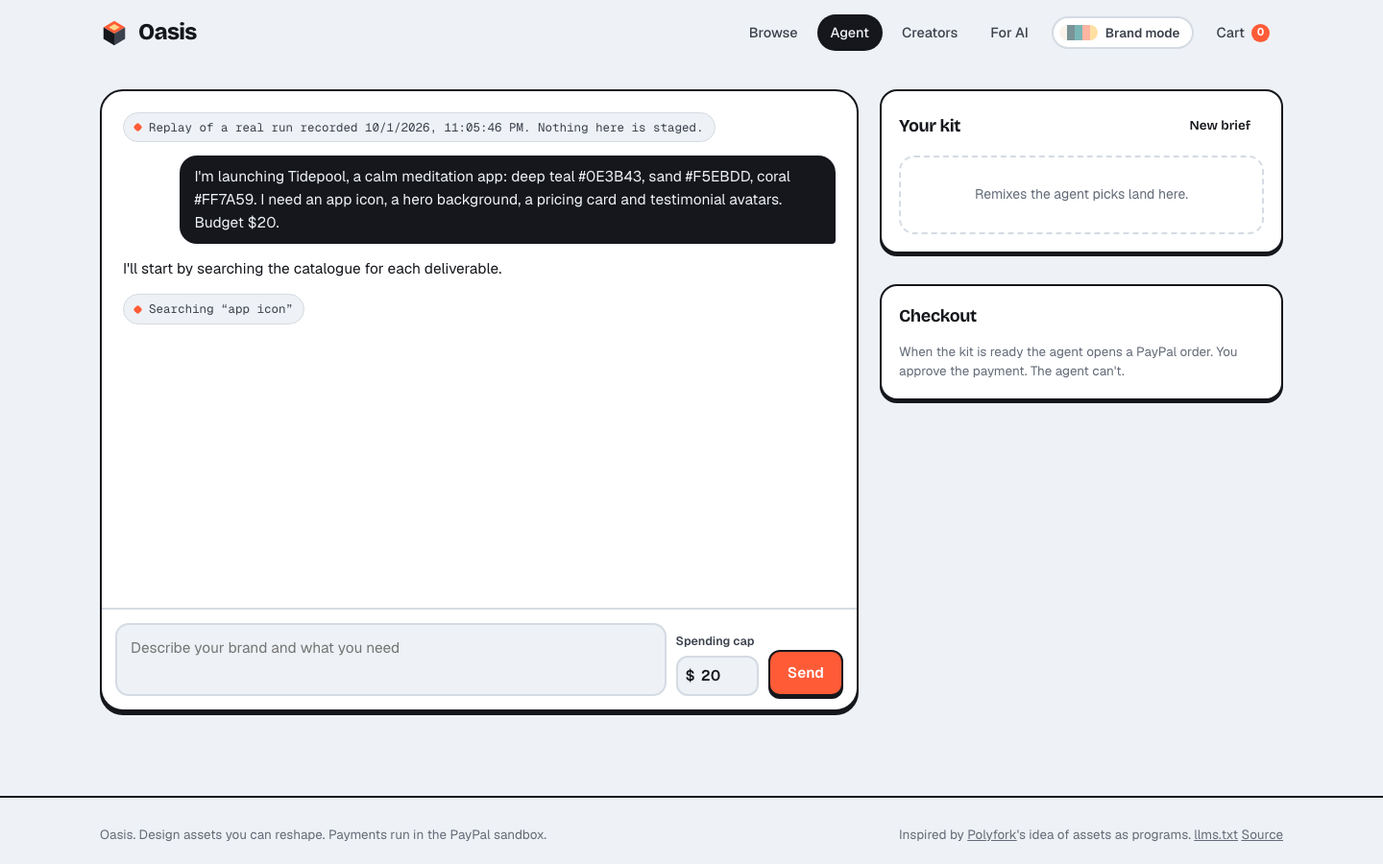
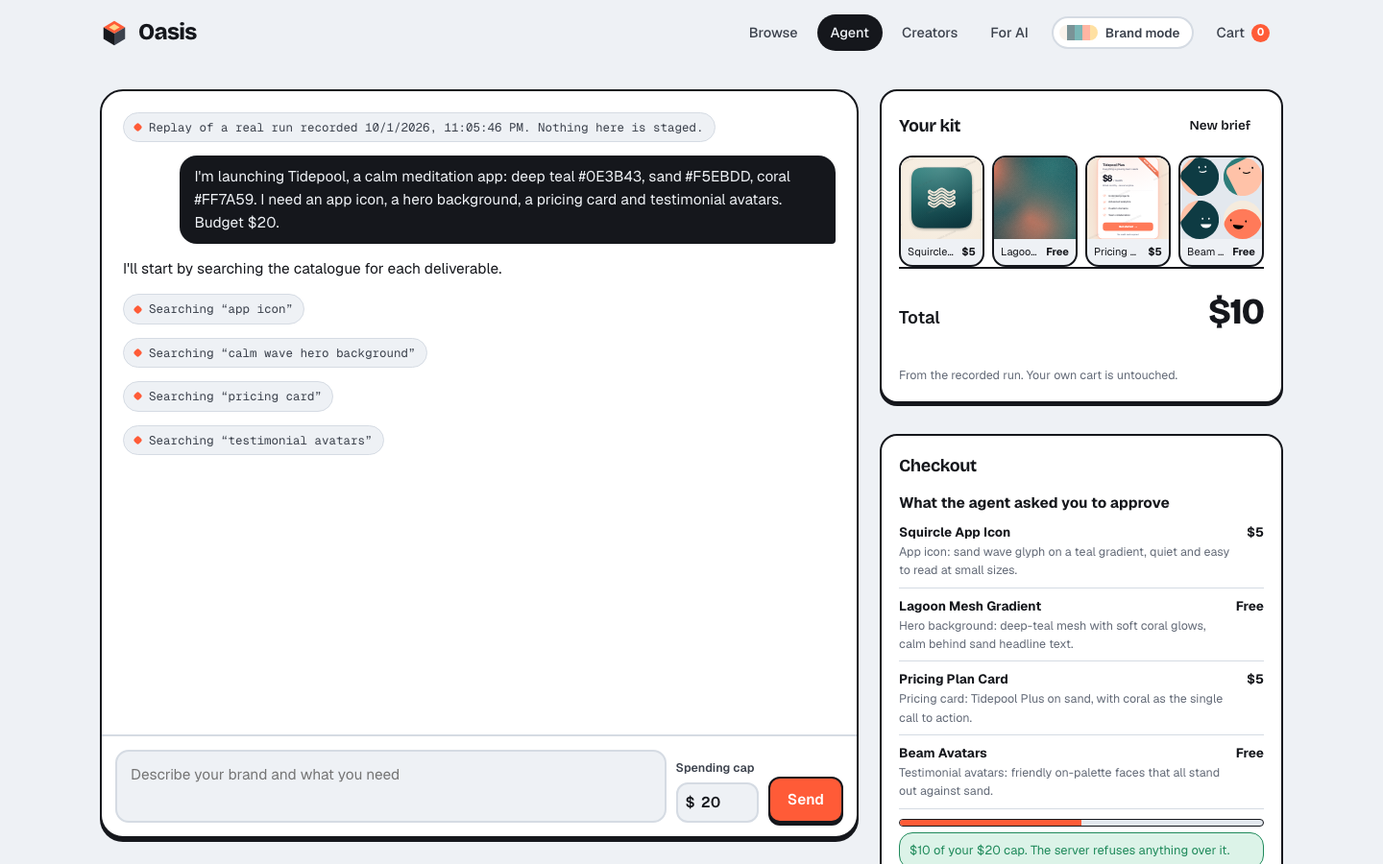
Public proof page: live orders, verified webhook log, payouts, MCP traffic
- /api/status and #/status (nav: Proof); every webhook delivery is logged with its signature result
- Webhook endpoint rate-limited; forged deliveries show up as rejected (test added, 26/26)
- Story and PAYPAL.md say plainly that no sandbox order has run on the live deploy yet

diff --git a/public/app.js b/public/app.js
@@ -608,7 +608,7 @@ function pageAgent() {
     const items = replayKit || cart.items;
     const total = items.reduce((s, i) => s + i.price, 0);
     $("#kit").innerHTML = items.length
-      ? `<div class="kit${items.length >= 4 ? " compact" : ""}">${items.map((i) => `<div class="item"><img src="${esc(i.previewUrl)}" alt=""/><div><span>${esc(i.title)}</span><b>${money(i.price)}</b></div></div>`).join("")}</div><div class="total"><span>Total</span><b>${money(total)}</b></div>${replayKit ? `<p class="muted" style="margin:10px 0 0;font-size:12.5px">From the recorded run. Your own cart is untouched.</p>` : ""}`
+      ? `<div class="kit${items.length >= 4 ? " compact" : ""}">${items.map((i) => `<div class="item"><img src="${esc(i.previewUrl)}" alt=""/><div><span>${esc(i.title)}</span><b>${money(i.price)}</b></div></div>`).join("")}</div><div class="total"><span>Total</span><b>${money(total)}</b></div>${replayKit ? `<p class="muted" style="margin:10px 0 0;font-size:12.5px">A recorded run. Nothing was added to your cart.</p>` : ""}`
       : `<div class="empty">Remixes the agent picks land here.</div>`;
   };
   drawKit();
@@ -867,6 +867,39 @@ GET ${esc(o)}/api/assets/pricing-card/render.svg?preset=Indigo</pre></div>
   }).catch(() => {});
 }
 
+async function pageStatus() {
+  setNav("status");
+  app.innerHTML = `<div class="wrap" style="max-width:1000px"><div class="crumbs"><h1>Proof</h1></div><p class="muted">Loading…</p></div>`;
+  const s = await api("/api/status");
+  const GH = "https://github.com/machmoon/oasis/blob/main";
+  const pill = (on, yes, no) => `<span class="state ${on ? "on" : "off"}">${on ? yes : no}</span>`;
+  const when = (t) => (t ? esc(new Date(t).toLocaleString()) : "");
+  const table = (rows, cols, empty) => rows.length
+    ? `<div class="tablewrap"><table class="table"><tr>${cols.map(([h]) => `<th>${h}</th>`).join("")}</tr>${rows.map((r) => `<tr>${cols.map(([, f]) => `<td>${f(r)}</td>`).join("")}</tr>`).join("")}</table></div>`
+    : `<p class="muted" style="margin:0">${empty}</p>`;
+  const nokeys = s.paypalReady ? "" : " This deploy has no PayPal sandbox keys yet, so there is nothing to list.";
+  app.innerHTML = `<div class="wrap" style="max-width:1000px">
+    <div class="crumbs"><h1>Proof</h1></div>
+    <p class="muted" style="font-size:17px;margin-top:0">Read live from this server, not typed by hand. Every PayPal object Oasis creates shows up here with its real sandbox ID.</p>
+    <div class="stats4">
+      <div><span>PayPal sandbox</span>${pill(s.paypalReady, "Connected", "No keys yet")}</div>
+      <div><span>Live agent</span>${pill(s.agentReady, "On", "Off (replay)")}</div>
+      <div><span>Tests</span><b>${esc(s.tests || "?")}</b><a href="${GH}/docs/PROOF.md">names and output</a></div>
+      <div><span>Factory</span><b>${s.factory.published}/${s.factory.builds}</b><a href="${GH}/docs/PROOF.md#factory-v2-verdicts-${s.factory.published}-published-${s.factory.rejected}-rejected-of-${s.factory.builds}">published, every verdict</a></div>
+    </div>
+    <div class="panel"><h3>PayPal orders <span class="muted" style="text-transform:none;letter-spacing:0;font-weight:400">${s.orders.total} total${Object.keys(s.orders.byStatus).length ? " · " + Object.entries(s.orders.byStatus).map(([k, v]) => `${v} ${esc(k.toLowerCase())}`).join(", ") : ""}</span></h3>
+      ${table(s.orders.recent, [["Order", (o) => `<span class="mono">${esc(o.id)}</span>`], ["Status", (o) => esc(o.status)], ["Total", (o) => money(o.total)], ["Requested by", (o) => esc(o.agentName || "a person") + (o.cap ? ` · cap ${money(o.cap)}` : "")], ["Capture", (o) => `<span class="mono">${esc(o.captureId || "")}</span>`], ["Royalties", (o) => esc(o.payoutBatch || o.payoutHold || "")], ["Created", (o) => when(o.createdAt)]], "No orders yet." + nokeys)}</div>
+    <div class="panel"><h3>Webhook events</h3><p class="muted" style="margin:-4px 0 10px;font-size:13px">Each is checked with PayPal's verify-webhook-signature API before anything is trusted. Rejected ones are logged too.</p>
+      ${table(s.webhooks, [["Received", (w) => when(w.at)], ["Event", (w) => `<span class="mono">${esc(w.type)}</span>`], ["Resource", (w) => `<span class="mono">${esc(w.resourceId)}</span>`], ["Signature", (w) => pill(w.verified, "verified", "rejected")], ["Effect", (w) => esc(w.result)]], "No webhook deliveries yet." + nokeys)}</div>
+    <div class="panel"><h3>Royalty payouts</h3><p class="muted" style="margin:-4px 0 10px;font-size:13px">Held for the 14-day refund window, then sent as one Payouts batch per order. A refund in the window cancels them.</p>
+      ${table(s.payouts, [["Item", (p) => `<span class="mono">${esc(p.ref)}</span>`], ["Status", (p) => esc(p.status)], ["PayPal item", (p) => `<span class="mono">${esc(p.itemId || "")}</span>`], ["Updated", (p) => when(p.at)]], "No payouts yet. The first ones release 14 days after the first captured sale of a fork.")}</div>
+    <div class="panel"><h3>Agents over MCP <span class="muted" style="text-transform:none;letter-spacing:0;font-weight:400">since ${when(s.mcp.since)}</span></h3>
+      <div class="stats3"><div><b>${s.mcp.requests}</b><span>requests</span></div><div><b>${Object.values(s.mcp.tools).reduce((a, b) => a + b, 0)}</b><span>tool calls</span></div><div><b>${Object.keys(s.mcp.clients).length}</b><span>distinct clients</span></div></div>
+      <p class="muted" style="margin:10px 0 0;font-size:13px">${Object.entries(s.mcp.tools).map(([t, n]) => `<span class="mono">${esc(t)}</span> ${n}`).join(" · ") || "No tool calls yet."} <a href="${GH}/docs/mcp-session.md">Read a recorded outside-agent session</a>.</p></div>
+    <p class="muted" style="font-size:13px">How the payment path works, with code references: <a href="${GH}/PAYPAL.md">PAYPAL.md</a>.</p>
+  </div>`;
+}
+
 // ---------- router ----------
 async function route() {
   const [path, query] = location.hash.slice(1).split("?");
@@ -881,6 +914,7 @@ async function route() {
   if (parts[0] === "order" && parts[1]) return pageOrder(decodeURIComponent(parts[1]));
   if (parts[0] === "creators") return pageCreators();
   if (parts[0] === "agents") return pageAgents();
+  if (parts[0] === "status") return pageStatus();
   pageHome();
 }
 

diff --git a/server/app.js b/server/app.js
@@ -95,10 +95,21 @@ export async function createApp() {
   app.post("/api/orders/:id/refund", wrap(async (req, res) => res.json(await commerce.refund(req.params.id, req.body || {}))));
 
   // PayPal webhooks, verified with verify-webhook-signature before anything is trusted.
-  app.post("/api/paypal/webhook", wrap(async (req, res) => {
+  const webhookLimit = rateLimit({ windowMs: 60_000, limit: 60, standardHeaders: "draft-8", legacyHeaders: false });
+  app.post("/api/paypal/webhook", webhookLimit, wrap(async (req, res) => {
     const { verifyWebhook } = await import("./paypal.js");
-    if (!(await verifyWebhook(req.headers, req.body))) return res.status(400).json({ error: "signature verification failed" });
-    res.json({ ok: true, result: await commerce.handleWebhook(req.body) });
+    const ev = req.body || {};
+    const logEvent = (verified, result) => store.put("webhooks", `${Date.now()}-${crypto.randomBytes(3).toString("hex")}`, {
+      at: new Date().toISOString(), eventId: String(ev.id || "").slice(0, 60), type: String(ev.event_type || "").slice(0, 60),
+      resourceId: String(ev.resource?.id || ev.resource?.payout_item_id || "").slice(0, 60), verified, result,
+    }).catch(() => {});
+    if (!(await verifyWebhook(req.headers, req.body))) {
+      await logEvent(false, "rejected: signature verification failed");
+      return res.status(400).json({ error: "signature verification failed" });
+    }
+    const result = await commerce.handleWebhook(req.body);
+    await logEvent(true, result);
+    res.json({ ok: true, result });
   }));
 
   app.get("/api/licenses/:token", wrap(async (req, res) => res.json(await commerce.license(req.params.token))));
@@ -181,6 +192,22 @@ export async function createApp() {
     next();
   };
   const isCreate = (req) => req.body?.method === "tools/call" && req.body?.params?.name === "create_order";
+  // Public evidence page: what the deploy can do and the PayPal objects it has actually produced.
+  const numbers = fs.existsSync("judging/numbers.json") ? JSON.parse(fs.readFileSync("judging/numbers.json", "utf8")) : {};
+  app.get("/api/status", wrap(async (req, res) => {
+    const recent = (rows, n = 12) => rows.sort((a, b) => String(b.createdAt || b.at).localeCompare(String(a.createdAt || a.at))).slice(0, n);
+    const orders = await store.list("orders");
+    const byStatus = orders.reduce((m, o) => ((m[o.status] = (m[o.status] || 0) + 1), m), {});
+    res.set("Cache-Control", "no-cache").json({
+      paypalReady: paypalConfigured(), agentReady: !!config.anthropicKey, paypalEnv: "sandbox",
+      tests: numbers.tests, factory: { builds: numbers.factoryBuilds, published: numbers.factoryPublished, rejected: numbers.factoryRejected },
+      assets: catalog.allAssets().length,
+      orders: { total: orders.length, byStatus, recent: recent(orders).map((o) => ({ id: o.id, status: o.status, total: o.total, items: o.items.length, agentName: o.agentName, cap: o.maxTotal, captureId: o.captureId || null, refundId: o.refundId || null, payoutHold: o.payoutHold?.status || null, payoutBatch: o.payoutBatch?.id || null, createdAt: o.createdAt })) },
+      webhooks: recent(await store.list("webhooks"), 15),
+      payouts: recent(await store.list("payouts"), 15),
+      mcp: mcpStats,
+    });
+  }));
   app.get("/api/stats/mcp", (req, res) => res.set("Cache-Control", "no-cache").json(mcpStats));
   app.post("/mcp", mcpLimit, (req, res, next) => (isCreate(req) ? mcpOrderLimit(req, res, next) : next()), countMcp, handleMcp);
   app.get("/mcp", (req, res) => res.status(405).json({ jsonrpc: "2.0", error: { code: -32000, message: "Method not allowed. POST JSON-RPC to /mcp." }, id: null }));

diff --git a/public/styles.css b/public/styles.css
@@ -391,3 +391,13 @@ footer .wrap { display: flex; gap: 18px; flex-wrap: wrap; justify-content: space
 .stats3 b { display: block; font-family: var(--display); font-size: 28px; line-height: 1.05; }
 .stats3 span { font-size: 12.5px; color: var(--ink-2); }
 ul.plain { margin: 0; padding-left: 18px; display: grid; gap: 6px; }
+.stats4 { display: grid; grid-template-columns: repeat(4, minmax(0, 1fr)); gap: 12px; margin-bottom: 18px; }
+.stats4 > div { border: var(--edge); border-radius: 18px; background: var(--surface); padding: 14px 16px; display: grid; gap: 6px; align-content: start; box-shadow: var(--lift); }
+.stats4 span:first-child { font-size: 13px; color: var(--ink-2); font-weight: 600; }
+.stats4 b { font-family: var(--display); font-size: 30px; line-height: 1; }
+.stats4 a { font-size: 12.5px; }
+.state { display: inline-block; justify-self: start; font-size: 12.5px; font-weight: 700; padding: 3px 10px; border-radius: 99px; border: 2px solid var(--ink); }
+.state.on { background: #c9f2d6; }
+.state.off { background: #ffe1d6; }
+.tablewrap { overflow-x: auto; }
+@media (max-width: 760px) { .stats4 { grid-template-columns: repeat(2, minmax(0, 1fr)); } }

diff --git a/public/index.html b/public/index.html
@@ -23,6 +23,7 @@
         <a href="#/agent" data-nav="agent">Agent</a>
         <a href="#/creators" data-nav="creators" class="hide-sm">Creators</a>
         <a href="#/agents" data-nav="agents" class="hide-sm">For AI</a>
+        <a href="#/status" data-nav="status" class="hide-sm">Proof</a>
         <button class="brand-pill" id="brand-pill" title="Brand mode: re-skin every asset in your brand"></button>
         <a href="#/cart" data-nav="cart" class="cart-pill">Cart <b id="cart-count">0</b></a>
       </nav>

diff --git a/judging/latest.md b/judging/latest.md
@@ -1,9 +1,9 @@
-Panel 10/1/2026, 11:12:32 PM: totals Oasis 116, R1 167, R2 119, R3 102, R4 89, R5 140
-- PayPal Developer Advocate: Oasis 29 {"tech":7,"design":7,"impact":5,"idea":6,"presentation":4}; R1 41; Oasis describes a PayPal integration that is deep and correctly designed: server-verified capture, PayPal-Request-Id idempotency, signature-verified webhooks, refunds that revoke licences, and Payouts held past the refund window. But the live deploy reports paypalReady:false and agentReady:false, the agent page is a replay stalled on its first step, and Devpost is unsubmitted, so a judge cannot complete a single sandbox purchase on an idea that openly derives from Polyfork.
-  fixes: Make the demo actually run. Set the PayPal secret and the Claude key on Render so /api/config returns paypalReady:true and agentReady:true. Publish a sandbox buyer login on the home page so a judge can go from License, to the PayPal approval window, to capture, to the licensed download in under a minute. | Submit to Devpost with a 2-3 minute video of one unbroken real run. It should show the brief, then the agent's remixes, then the order with the agent name and spending cap visible in PayPal's approval screen, then capture, the download, and the webhook and Payout appearing in the sandbox dashboard. | Fix the agent replay so it plays through to the end. The screenshot stops at 'Searching app icon' with an empty kit and checkout panel. The replay should fill the kit, show each licence with the agent's reason, and end on a real sandbox order ID and payer-action link, ideally with a 'run it live' button beside it. | Prove the PayPal claims in a way a developer can learn from. Add real sandbox order, capture, refund and payout-batch IDs, plus verified webhook event logs, to PROOF.md and link them from the footer. Then move the royalty split from Payouts to multiparty Orders (per-item payee plus platform_fees) now rather than 'in production', so refunds unwind the split natively and the fork-royalty feature showcases PayPal's marketplace primitives.
-- PayPal Engineering Manager: Oasis 29 {"tech":6,"design":7,"impact":5,"idea":6,"presentation":5}; R1 41; Oasis has the right payment design on paper (server-priced capture verification, PayPal-Request-Id idempotency, signed webhooks, a server-enforced spending cap, refund-window-held Payouts) and a clean, coherent store, but the live deploy reports paypalReady:false and agentReady:false, the agent page is a replay, and the Devpost is unsubmitted, so none of the agent-to-PayPal flow is provable end to end, and the core idea is openly derivative of Polyfork, which has real customers and revenue.
-  fixes: Set the PayPal sandbox credentials and the Claude key on the Render deploy so /api/config returns paypalReady:true and agentReady:true. Publish sandbox buyer credentials so a judge can run the full path live: brief, branded kit, order under the cap, approval in PayPal, server-side capture, licensed download. | Submit the Devpost with a 2-3 minute unedited video of a live run. Show the PayPal approval window displaying the agent name and cap, a webhook-driven capture after closing the tab, a deliberate amount-mismatch refund, and a refund revoking the licence. | Prove the MCP path with real artefacts. Connect an external agent such as Claude Desktop to /mcp, attempt a create_order above max_total_usd and show the server refusing it, then complete one under the cap. Commit the real sandbox order, capture, refund and payout IDs with their verified webhook events to PROOF.md. | Harden agent-initiated payments beyond 23 tests. Add rate limiting and abuse controls on the unauthenticated /mcp create_order, webhook replay/duplicate-delivery tests, and an end-to-end Playwright test against the PayPal sandbox in CI. Either implement the Commerce Platform payee/platform_fees split or test the Payouts hold-and-cancel path against the sandbox rather than only in unit tests.
-- PayPal Senior Product Manager: Oasis 28 {"tech":6,"design":7,"impact":4,"idea":6,"presentation":5}; R1 42; Oasis has the right PayPal primitive for agentic commerce (the agent creates the order, the human approves it, the server enforces the cap) and a disciplined build log, but it is an unsubmitted Polyfork-for-SVG with no users or revenue and a live site where both PayPal and the agent are switched off, so it currently proves less than the winners it has to beat.
-  fixes: Turn on paypalReady and agentReady in the live deploy so a judge can run the whole flow themselves: brief, branded kit, PayPal sandbox order showing the agent's name and the cap, approve, capture, licensed download. Also post a 90-second video of that exact run with the PayPal approval screen visible. | Bring evidence of demand, because right now there is none. Get real people and external agents to use it, then publish the counts: MCP calls from external keys, sandbox or real orders captured, and a few named testers who branded a kit. Polyfork wins on 54 paying customers, and Oasis has zero. | Rebuild the agent page around its payoff. The replay screenshot shows a near-empty chat and an empty kit and checkout. Open on the finished state (four branded assets, itemised cart, cap meter, PayPal button), then let the replay explain how it got there. | Submit on Devpost, and sharpen the why-pay story against free shadcn/Figma kits and image generation. Lead with a one-click Brand Mode before/after on your own palette, and prove the royalty chain with a real sandbox Payouts batch ID and webhook trace. That also helps the visuals, especially the isometric town, read as more than a Polyfork reskin.
-- Sponsor developer-relations engineer (hosting platform): Oasis 30 {"tech":7,"design":7,"impact":5,"idea":6,"presentation":5}; R1 43; Oasis is a well-crafted, honestly documented Polyfork-for-2D with a sharp agent-proposes, human-approves PayPal primitive, but the live site has both PayPal and the agent switched off (paypalReady:false, agentReady:false), the agent 'replay' screenshot stalls on one search step with an empty kit, and nothing is on Devpost yet, so its strongest claims are still unproven to a judge.
-  fixes: Turn the live deploy on: set the PayPal sandbox credentials and the Claude key so paypalReady and agentReady are true. Let a judge run a real brief through to PayPal's approval window, showing the agent name and spending cap, then capture and download. Until then, make the replay finish within about 10 seconds: a filled 'Your kit' panel and a visible PayPal button, not a mostly empty chat. | Submit to Devpost with a 2-minute video of one unbroken take covering five steps: the Tidepool brief, the agent rejecting a muddy render and remixing, the branded kit, PayPal sandbox approval and capture, and a fork-of-a-fork sale producing three sandbox Payouts. Put the order IDs and payout batch IDs in PROOF.md. | Make the differentiation from Polyfork visible above the fold rather than buried in the README. Show Brand Mode as a before/after strip on the home page: paste a palette and watch the whole browse grid re-skin. Add a short 'agent can ask, can't pay' diagram, because the hero isometric town currently reads as a Polyfork homage. | Prove the MCP endpoint is usable by outside agents. Add a copy-paste Claude Desktop/Cursor config snippet on the For AI page and a public counter of real /mcp calls. Include one recorded third-party agent session that ends with create_order and a human-approved capture.
+Panel 10/1/2026, 11:21:26 PM: totals Oasis 126, R1 175, R2 119, R3 101, R4 87, R5 142
+- PayPal Developer Advocate: Oasis 30 {"tech":7,"design":7,"impact":5,"idea":6,"presentation":5}; R1 45; On paper this is the most thorough PayPal integration in the field: Orders v2 with server-priced verified capture, PayPal-Request-Id idempotency, signature-verified webhooks, refunds, and Payouts for fork royalties, all backed by 25 passing tests. But the live site reports paypalReady:false and agentReady:false, the agent page is a replay, and the Devpost entry is unsubmitted, so a judge cannot complete a single PayPal approval on what is, visually and conceptually, a 2D reskin of Polyfork.
+  fixes: Put PayPal sandbox credentials on the Render deployment so /api/config returns paypalReady:true, then publish sandbox buyer credentials in the README. A judge should be able to run create order, approve in PayPal's window, server capture, and licensed download on the live URL in under a minute. | Turn on the live agent and the MCP create_order path behind a rate limit and a low global cap (agentReady:true). A judge's own brief should return a real payer-action link instead of a replayed transcript. The agent-proposes, human-approves flow is the whole PayPal pitch, and right now it cannot be exercised. | Submit to Devpost with a 2-3 minute video of one unedited sandbox run: the agent builds the kit, the order shows the agent name and cap, the PayPal approval popup appears, then capture, a CHECKOUT.ORDER.APPROVED or PAYMENT.CAPTURE webhook in a visible event log, and a Payouts batch ID for a fork-of-a-fork royalty. Show the real sandbox order, capture and payout IDs on screen. | Make the creator split PayPal-native now rather than 'in production': use multiparty per-unit payee plus platform_fees in sandbox, or at least show the held-then-released Payouts flow end to end. Add a public /paypal status page listing recent sandbox orders, webhooks and payouts. That turns PAYPAL.md from a claim into something a developer can verify and learn from, and gives Oasis a PayPal-specific edge over Polyfork.
+- PayPal Engineering Manager: Oasis 33 {"tech":7,"design":8,"impact":6,"idea":7,"presentation":5}; R1 42; Oasis has the right payments design on paper: agent-created orders, human approval, a server-enforced cap, verified capture with auto-refund on mismatch, PayPal-Request-Id idempotency and signed webhooks, but the live deploy reports paypalReady:false and agentReady:false, the agent page is a replay, and Devpost is unsubmitted, so nothing PayPal-related can be verified end to end and it trails Polyfork's real revenue and Countersign's depth of tested spend controls.
+  fixes: Configure PayPal sandbox credentials and the Claude key on the Render deploy so /api/config shows paypalReady:true and agentReady:true. A judge must be able to brief the agent live, approve in PayPal's sandbox window, see the server-side capture and download the licensed SVG, without relying on a recorded replay. | Submit on Devpost with a 2–3 minute video of one unbroken flow: an outside MCP agent calls create_order with max_total_usd, a server-side refusal when the cart exceeds the cap, the human approves, get_order captures, and a refund webhook revokes the licence. Show the sandbox order and capture IDs on screen. | Add end-to-end evidence beyond 25 unit tests. Run Playwright against the PayPal sandbox for create, approve, capture and refund. Replay duplicate and out-of-order webhooks against the deployed endpoint. Run a concurrent-capture test against the live service. Publish the run log in PROOF.md with order IDs. | Make the royalty story honest and verifiable. Either run a real sandbox Payouts batch after a simulated refund window and show the PAYMENT.PAYOUTS-ITEM status tracking, or state plainly that the split is simulated until Commerce Platform onboarding, so the most novel claim ('forks pay upstream') doesn't rest on assertion.
+- PayPal Senior Product Manager: Oasis 31 {"tech":7,"design":8,"impact":5,"idea":6,"presentation":5}; R1 43; Oasis has the most thorough PayPal integration on paper and a polished, coherent store, but the live site reports paypalReady:false and agentReady:false, the agent page is only a replay, Devpost is unsubmitted, and there are no users, so it reads as a well-engineered Polyfork remake for design assets plus an agentic checkout that a judge cannot actually run.
+  fixes: Make the live demo work end to end: configure PayPal sandbox credentials and the Claude agent on oasis-design.onrender.com so a judge can type a brief, watch the cart fill under the cap, click through PayPal's approval screen showing the agent name, and download the licensed kit. Then replace the 'replay' banner with a live run. | Submit on Devpost with a 2-minute video. Make the PayPal moment the climax: the order created by an outside MCP agent, the payer-action link handed to the human, approval, server-side capture, and a fork royalty showing up as a Payouts item. Link the sandbox transaction IDs. | Replace claims with external evidence. Get even 10–20 real outside users or agents to complete sandbox orders. Get a few third-party creators to publish forks. Publish real MCP call counts from keys you don't own, the way Polyfork did with its 14,524 calls from 29 keys. | Lead with what Polyfork doesn't have and stop echoing its visuals. Put Brand Mode and 'the agent asks, you approve in PayPal' above the fold instead of an isometric town that mirrors Polyfork's diorama. Clean up the agent screen's confusing 'recorded run / your cart is untouched' state so the spending cap and the approve step are the obvious hero.
+- Sponsor developer-relations engineer (hosting platform): Oasis 32 {"tech":7,"design":8,"impact":6,"idea":6,"presentation":5}; R1 45; Oasis is a well-crafted, coherent store with a sharp agentic-commerce angle, but it currently fails its own PayPal hackathon test: the live site reports paypalReady:false and agentReady:false, the agent page is a replay, and the Devpost entry is not submitted, so its strongest PayPal claims rest on a README and passing unit tests rather than anything a judge can click through.
+  fixes: Configure PayPal sandbox credentials and the Claude key on Render so /api/config reports paypalReady:true and agentReady:true. A judge must be able to brief the agent live, see the cart, and complete a real sandbox PayPal approval and capture that ends in a licensed download. | Submit the Devpost entry with a 2–3 minute video. It should cover the full loop in one take: a brief, the agent rejecting a muddy render, the PayPal approval window showing the agent's name and cap, server capture, and the download. Add a short clip of an outside agent shopping over /mcp. | Add a visible judge path on the home page: 'Try it in 60s' with sandbox buyer credentials and a pre-filled brief. Pair it with live receipts for the parts only Oasis has: a refused over-cap order, and a fork-of-a-fork sandbox payout split with real PayPal transaction and payout IDs. The concept and visuals closely track Polyfork, so the PayPal approval flow and royalty mechanics are the only clear differentiators and need visible proof. | Tighten the agent page. Stream the actual remix renders inline in the chat instead of leaving a large empty pane under four search chips, and drop the 'Replay' banner once it runs live. Then put the 25 passing tests, factory pass and reject stats, and PROOF.md on a public status page linked from the nav, so evidence sits next to the claims.

diff --git a/SUBMISSION.md b/SUBMISSION.md
@@ -70,7 +70,7 @@ window closes, so nobody is paid on a refunded sale.
 - **Payouts** for royalties, held until the refund window closes and cancelled by a refund; **refunds** within 14 days
   through the Payments API. In production the creator split moves to **PayPal Commerce Platform** (per-unit `payee` +
   `platform_fees`) so refunds unwind it automatically.
-
+- **Where this stands, plainly:** the live deploy has no PayPal sandbox keys yet, so no order has been captured and no Payouts batch has been sent. Every path above is exercised by the tests against a fake PayPal client. Live counts of orders, verified webhooks and payouts: [oasis-design.onrender.com/#/status](https://oasis-design.onrender.com/#/status).
 
 **The asset factory.** 59 of the 67 assets were written by an agent pipeline (5 are
 hand-written programs, 3 are AI forks). The first 36 came from factory v1 (builder self-review only, all since
@@ -93,7 +93,7 @@ system, no network, a 48 MB heap. An allocation storm can outrun QuickJS's own i
 testing), so every server render runs in a worker thread that is **terminated at 3 s**. Output must be SVG and is only
 shown through `<img>`. Paid source never leaves the server; catalogue previews are low-res raster comps.
 
-**Tested.** 25/25 tests pass: price tampering, the capture race, amount-mismatch refunds, refund revocation,
+**Tested.** 26/26 tests pass: price tampering, the capture race, amount-mismatch refunds, refund revocation,
 webhook handling, the spending cap, royalty cents along a fork chain, sandbox escapes and the deadline kill.
 
 **Stack.** Node + Express, a no-build vanilla JS store, Claude Opus 5.5 (agent, forks, factory, grader), MCP Streamable

diff --git a/docs/PROOF.md b/docs/PROOF.md
@@ -3,7 +3,7 @@
 Generated by `node scripts/proof.mjs` on 2026-10-02 from the test run and
 [`factory/stats.jsonl`](../factory/stats.jsonl). Nothing here is typed by hand.
 
-## Tests: 25/25 passing
+## Tests: 26/26 passing
 
 - ✔ prices come from the server, never the client
 - ✔ free-only carts are refused
@@ -30,6 +30,7 @@ Generated by `node scripts/proof.mjs` on 2026-10-02 from the test run and
 - ✔ paid previews are watermarked; brand mode re-skins renders
 - ✔ a client cannot set its own price
 - ✔ MCP create_order is rate limited per client, and MCP traffic is counted publicly
+- ✔ the public proof page logs a forged webhook as rejected and reports readiness honestly
 
 The PayPal client is a fake in these tests (`setPaypalClient`), so they cover Oasis's own logic: pricing, the
 capture race, amount checks, refunds, held royalties and webhooks. They do not prove the sandbox round trip.

diff --git a/PAYPAL.md b/PAYPAL.md
@@ -102,6 +102,12 @@ get a 400; tested). Then:
 `PayPal-Request-Id: oasis-refund-<id>`, within 14 days. Licences are revoked immediately, and downloads return
 `410 Gone` (tested).
 
+## What has actually run
+
+The live deploy lists every order, verified webhook and payout it has produced, with real sandbox IDs, at
+[`/#/status`](https://oasis-design.onrender.com/#/status). Until the sandbox keys are set there, those lists are empty
+and everything above is proven only by `test/commerce.test.mjs` against a fake client.
+
 ## Running it in the sandbox
 
 1. developer.paypal.com → Apps & Credentials → Sandbox → your app: copy the client id and secret into `.env`
